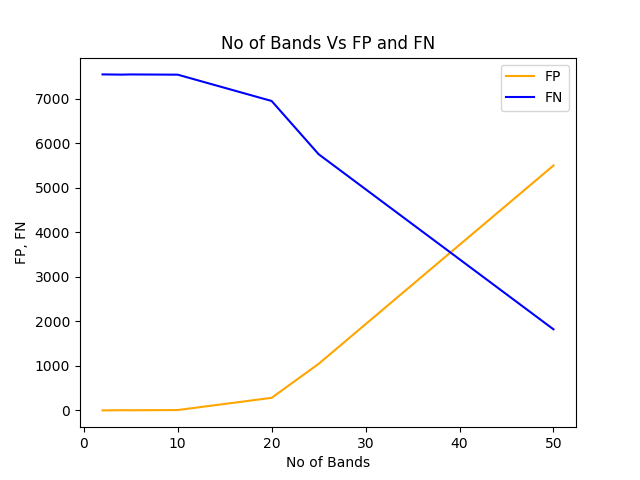
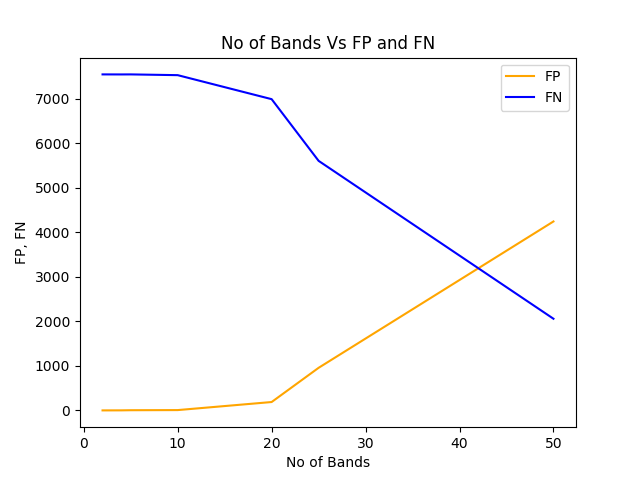
removed comments

diff --git a/MinHashLSH.py b/MinHashLSH.py
@@ -2,7 +2,7 @@ import math
 import numpy as np
 import pandas as pd
 import matplotlib.pyplot as plt
-import time
+import hashlib
 
 
 def create_signature_matrix(data, permutation):
@@ -53,8 +53,12 @@ def get_best_b_r_values(threshold, permutation):
             max_slope = slope_range
             best_probabilities = probabilities
             best_b_r =(b,r)
-    #plt.plot(similar_set,best_probabilities)
-    #plt.show()
+    graph_text = "Permutation = "+ str(permutation)
+    plt.plot(similar_set,best_probabilities)
+    plt.title(graph_text)
+    plt.xlabel("Jaccard Similarities")
+    plt.ylabel("Candidate Probabilities")
+    plt.show()
     return best_b_r
 
 def find_candiate_pairs(bands,rows,signature_matrix):
@@ -131,19 +135,21 @@ def find_fp_fn(signature_matrix,candidate_pairs, data):
      for key in jacc_similarity.keys():
          if jacc_similarity[key] > 0.3 and key not in candidate_pairs:
                 false_negatives +=1
-     return false_positives, false_negatives, sig_false_positives, sig_false_negatives, similar_signatures
+     similar_pairs = len(candidate_pairs)
+     return false_positives, false_negatives, sig_false_positives, sig_false_negatives, similar_signatures, similar_pairs
 
 def perform_collaborative_filtering(data, permutation, threshold):
     signature_matrix = create_signature_matrix(data, permutation)
     b, r = get_best_b_r_values(threshold, permutation)
     candidate_pairs = find_candiate_pairs(b, r, signature_matrix)
-    fp, fn, sig_fp, sig_fn, sim_sig = find_fp_fn(signature_matrix, candidate_pairs, data)
+    fp, fn, sig_fp, sig_fn, sim_sig, sim_pair = find_fp_fn(signature_matrix, candidate_pairs, data)
     print("Permutation Level - " + str(permutation))
     print("Best b value" + str(b))
     print("Best r value" + str(r))
-    print("Similar pair of Signatures - " + str(sim_sig))
     print("FP - Signature " + str(sig_fp), "FN - Signature " + str(sig_fn))
+    print("Similar pair of Signatures - " + str(sim_sig))
     print("FP - Total " + str(fp), "FN - Total " + str(fn))
+    print("Similar Pairs - " + str(sim_pair))
 
 def perform_filtering_complete(data,permutation, threshold):
     signature_matrix = create_signature_matrix(data, permutation)
@@ -155,7 +161,7 @@ def perform_filtering_complete(data,permutation, threshold):
     b_list = []
     for b, r in b_r_tuples:
         candidate_pairs = find_candiate_pairs(b,r,signature_matrix)
-        fp, fn, sig_fp, sig_fn, sim_sig = find_fp_fn(signature_matrix,candidate_pairs,data)
+        fp, fn, sig_fp, sig_fn, sim_sig, sim_pairs= find_fp_fn(signature_matrix,candidate_pairs,data)
         fp_list.append(fp)
         fn_list.append(fn)
         sig_fp_list.append(sig_fp)
@@ -163,6 +169,9 @@ def perform_filtering_complete(data,permutation, threshold):
         b_list.append(b)
     generate_plots(sig_fp_list,sig_fn_list,b_list,"No of Bands Vs Signature FP and FN")
     generate_plots(fp_list,fn_list,b_list,"No of Bands Vs FP and FN")
+    print(b_list,"B List")
+    print(fp_list,"FP List")
+    print(fn_list, "FN List")
 
 def generate_plots(fp_list, fn_list, b_list, graph_text):
     plt.plot(b_list, fp_list, color='orange', label="FP")
@@ -186,7 +195,7 @@ if __name__ == '__main__':
     perform_collaborative_filtering(data,100,0.30)
 
     # Perform collaborative filtering for Permutations = 500
-    # perform_collaborative_filtering(data,500,0.30)
+    #perform_collaborative_filtering(data,500,0.30)
 
     # To calculate the candidate pairs and FPs and FNs for all values of Bands and generate plots
-    #perform_filtering_complete(data,100,0.30)
+    #perform_filtering_complete(data,500,0.30)
